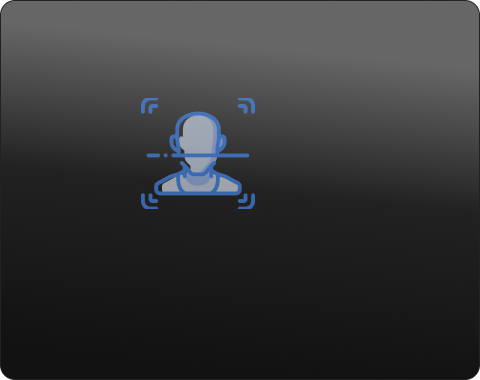
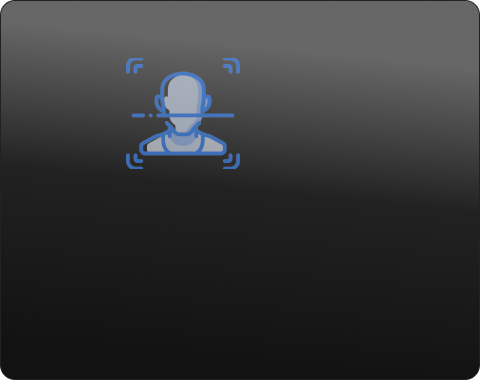
fix features-card col

Changed region(s): [[0.25, 0.1737, 0.5312, 0.55], [0.25, 0.1447, 0.3125, 0.2026], [0.4688, 0.1447, 0.5, 0.2026]]

diff --git a/src/output.css b/src/output.css
@@ -600,9 +600,12 @@ video {
   grid-column: span 2 / span 2;
 }
 
-.mx-auto {
-  margin-left: auto;
-  margin-right: auto;
+.col-span-3 {
+  grid-column: span 3 / span 3;
+}
+
+.col-span-5 {
+  grid-column: span 5 / span 5;
 }
 
 .ml-2 {
@@ -625,6 +628,10 @@ video {
   display: none;
 }
 
+.h-80 {
+  height: 20rem;
+}
+
 .h-full {
   height: 100%;
 }
@@ -632,18 +639,6 @@ video {
 .h-max {
   height: -moz-max-content;
   height: max-content;
-}
-
-.h-96 {
-  height: 24rem;
-}
-
-.h-72 {
-  height: 18rem;
-}
-
-.h-80 {
-  height: 20rem;
 }
 
 .w-11\/12 {
@@ -667,52 +662,16 @@ video {
   width: max-content;
 }
 
-.w-1\/2 {
-  width: 50%;
-}
-
-.w-1\/3 {
-  width: 33.333333%;
-}
-
-.w-2\/3 {
-  width: 66.666667%;
-}
-
-.w-1\/4 {
-  width: 25%;
-}
-
-.w-2\/4 {
-  width: 50%;
-}
-
-.flex-grow {
-  flex-grow: 1;
-}
-
 .cursor-pointer {
   cursor: pointer;
 }
 
-.grid-flow-row-dense {
-  grid-auto-flow: row dense;
-}
-
-.grid-cols-3 {
-  grid-template-columns: repeat(3, minmax(0, 1fr));
-}
-
-.grid-rows-3 {
-  grid-template-rows: repeat(3, minmax(0, 1fr));
+.grid-cols-5 {
+  grid-template-columns: repeat(5, minmax(0, 1fr));
 }
 
 .flex-col {
   flex-direction: column;
-}
-
-.flex-wrap {
-  flex-wrap: wrap;
 }
 
 .items-start {
@@ -743,6 +702,10 @@ video {
   gap: 2.5rem;
 }
 
+.gap-2 {
+  gap: 0.5rem;
+}
+
 .gap-24 {
   gap: 6rem;
 }
@@ -763,29 +726,9 @@ video {
   gap: 2rem;
 }
 
-.gap-2 {
-  gap: 0.5rem;
-}
-
-.gap-12 {
-  gap: 3rem;
-}
-
-.gap-16 {
-  gap: 4rem;
-}
-
 .gap-x-10 {
   -moz-column-gap: 2.5rem;
        column-gap: 2.5rem;
-}
-
-.gap-y-1 {
-  row-gap: 0.25rem;
-}
-
-.gap-y-16 {
-  row-gap: 4rem;
 }
 
 .gap-y-12 {
@@ -800,38 +743,12 @@ video {
   border-radius: 9999px;
 }
 
-.rounded-lg {
-  border-radius: 0.5rem;
-}
-
 .rounded-xl {
   border-radius: 0.75rem;
 }
 
-.bg-blue-100 {
-  --tw-bg-opacity: 1;
-  background-color: rgb(219 234 254 / var(--tw-bg-opacity));
-}
-
-.bg-red-300 {
-  --tw-bg-opacity: 1;
-  background-color: rgb(252 165 165 / var(--tw-bg-opacity));
-}
-
 .bg-\[url\(\'\/public\/features-bg\.png\'\)\] {
   background-image: url('/public/features-bg.png');
-}
-
-.bg-\[url\(\'\/public\/hero-bg\.png\'\)\] {
-  background-image: url('/public/hero-bg.png');
-}
-
-.bg-\[url\(\'\/public\/star\.png\'\)\] {
-  background-image: url('/public/star.png');
-}
-
-.bg-\[url\(\'\/public\/\.png\'\)\] {
-  background-image: url('/public/.png');
 }
 
 .bg-\[url\(\'\/public\/features-card1\.png\'\)\] {
@@ -848,6 +765,14 @@ video {
 
 .bg-\[url\(\'\/public\/features-card4\.png\'\)\] {
   background-image: url('/public/features-card4.png');
+}
+
+.bg-\[url\(\'\/public\/hero-bg\.png\'\)\] {
+  background-image: url('/public/hero-bg.png');
+}
+
+.bg-\[url\(\'\/public\/star\.png\'\)\] {
+  background-image: url('/public/star.png');
 }
 
 .bg-cover {
@@ -867,6 +792,18 @@ video {
      object-fit: contain;
 }
 
+.p-7 {
+  padding: 1.75rem;
+}
+
+.p-9 {
+  padding: 2.25rem;
+}
+
+.p-8 {
+  padding: 2rem;
+}
+
 .px-10 {
   padding-left: 2.5rem;
   padding-right: 2.5rem;
@@ -875,6 +812,11 @@ video {
 .px-20 {
   padding-left: 5rem;
   padding-right: 5rem;
+}
+
+.px-28 {
+  padding-left: 7rem;
+  padding-right: 7rem;
 }
 
 .px-4 {
@@ -907,22 +849,17 @@ video {
   padding-bottom: 1.25rem;
 }
 
-.px-3 {
-  padding-left: 0.75rem;
-  padding-right: 0.75rem;
-}
-
-.px-28 {
-  padding-left: 7rem;
-  padding-right: 7rem;
-}
-
 .pt-24 {
   padding-top: 6rem;
 }
 
 .text-center {
   text-align: center;
+}
+
+.text-2xl {
+  font-size: 1.5rem;
+  line-height: 2rem;
 }
 
 .text-5xl {
@@ -933,6 +870,10 @@ video {
 .text-lg {
   font-size: 1.125rem;
   line-height: 1.75rem;
+}
+
+.font-bold {
+  font-weight: 700;
 }
 
 .leading-tight {
@@ -1094,18 +1035,12 @@ body {
   background-color: var(--blue01);
 }
 
-@media (min-width: 640px) {
-  .sm\:w-1\/3 {
-    width: 33.333333%;
-  }
+.features .content p{
+  color: var(--gray02);
+}
 
-  .sm\:w-2\/3 {
-    width: 66.666667%;
-  }
-
-  .sm\:flex-grow-0 {
-    flex-grow: 0;
-  }
+.features .content .container .card:nth-child(1){
+  height: 380px;
 }
 
 @media (min-width: 768px) {

diff --git a/index.html b/index.html
@@ -100,22 +100,26 @@
             </button>
         </div>
         <div class="content w-full">
-            <div class="container grid grid-cols-3 gap-x-10 gap-y-12">
+            <div class="container grid grid-cols-5 gap-x-10 gap-y-12">
                 <div
-                    class="card col-span bg-[url('/public/features-card1.png')]  h-80 bg-cover bg-no-repeat bg-center rounded-xl overflow-hidden">
-
+                    class="card col-span-2 bg-[url('/public/features-card1.png')] bg-cover bg-center bg-no-repeat rounded-xl overflow-hidden p-8 flex items-end">
+                    <div class="card__content">
+                        <h3 class="text-white text-2xl font-bold">Authentification par reconnaissance faciale</h3>
+                        <p>Utilisez notre application en toute sécurité en vous authentifiant par reconnaissance faciale
+                        </p>
+                    </div>
                 </div>
                 <div
-                    class="card col-span-2 bg-[url('/public/features-card2.png')] h-80 bg-cover bg-no-repeat bg-center rounded-xl overflow-hidden">
+                    class="card col-span-3 bg-[url('/public/features-card2.png')] h-80 bg-cover bg-no-repeat bg-center rounded-xl overflow-hidden">
                 </div>
                 <div
-                    class="card col-span-2 bg-[url('/public/features-card3.png')]  h-80 bg-cover bg-no-repeat bg-center rounded-xl overflow-hidden">
-
+                    class="card col-span-5 bg-[url('/public/features-card3.png')] h-80 bg-cover bg-no-repeat bg-center rounded-xl overflow-hidden">
                 </div>
                 <div
-                    class="card  bg-[url('/public/features-card4.png')] h-80 bg-cover bg-no-repeat bg-center rounded-xl overflow-hidden">
+                    class="card col-span-5 bg-[url('/public/features-card4.png')] h-80 bg-cover bg-no-repeat bg-center rounded-xl overflow-hidden">
                 </div>
             </div>
+
         </div>
     </section>
 </body>

diff --git a/src/styles.css b/src/styles.css
@@ -140,3 +140,12 @@ body {
 .features .header button {
     background-color: var(--blue01);
 }
+
+
+.features .content p{
+    color: var(--gray02);
+}
+
+.features .content .container .card:nth-child(1){
+    height: 380px;
+}
